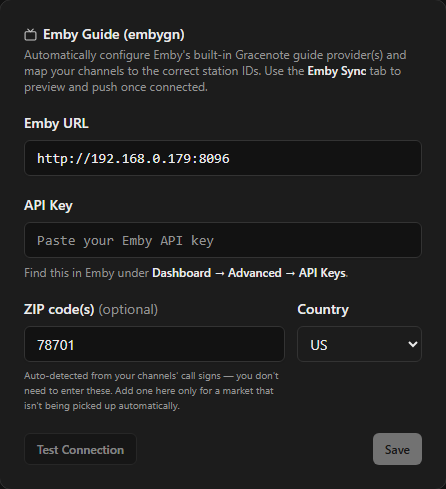
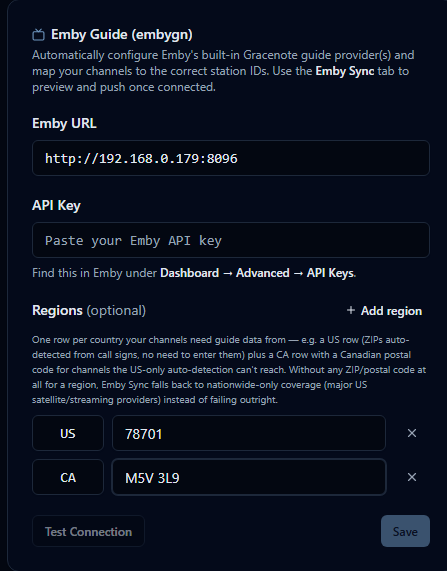
docs: document multi-region Emby Sync in README and USERGUIDE
Updates the Settings/Emby Sync sections to describe the region-row
UI (country + ZIP/postal codes per row, add/remove) instead of the
old single ZIP field + US/CA dropdown, and regenerates the Emby
Guide settings card screenshot to match.

diff --git a/docs/USERGUIDE.md b/docs/USERGUIDE.md
@@ -423,16 +423,15 @@ In **Settings**, scroll to the **Emby Guide (embygn)** card:
 
 - **Emby URL** — e.g. `http://192.168.1.100:8096`
 - **API Key** — from Emby's Dashboard → Advanced → API Keys
-- **ZIP code(s)** *(optional)* — EPGmatcharr auto-detects the markets it needs from your channels' call signs using public FCC station data, so this can usually be left blank. Add a ZIP here for full local cable/OTA coverage of a market that isn't being picked up automatically. If no ZIP can be auto-detected or entered at all, EPGmatcharr falls back to nationwide-only coverage (major satellite/streaming providers like DIRECTV, DISH, Hulu, YouTube TV) instead of failing — Preview will show a note when this fallback is in effect.
-- **Country** — US or CA
+- **Regions** *(optional)* — one row per country your channels need guide data from, each with a 2-letter country code and a comma-separated list of ZIP/postal codes. EPGmatcharr auto-detects US markets from your channels' call signs using public FCC station data, so a plain US setup can usually leave this blank entirely. Add a region row for a market the US auto-detection misses, or for any other country (e.g. Canada) — auto-detection is US-only, so a Canadian or other non-US channel needs its country's postal code entered manually. You can mix regions freely: a single Emby instance carrying both US and Canadian channels just needs a US row (ZIPs optional) and a CA row (postal code required) at the same time — every Preview/Push run searches all configured regions together. Use **+ Add region** / the trash icon next to a row to add or remove regions. If no ZIP/postal code can be auto-detected or entered at all, EPGmatcharr falls back to nationwide-only coverage (major US satellite/streaming providers like DIRECTV, DISH, Hulu, YouTube TV) instead of failing — Preview will show a note when this fallback is in effect.
 
 Click **Test Connection** to verify Emby is reachable, then **Save**.
 
 ![Emby Guide (embygn) settings card](screenshots/ug-emby-01-settings.png)
 
-> **Note:** If the `EMBY_URL` and `EMBY_API_KEY` environment variables are both set on the container, the URL and API Key fields are replaced with a notice and become read-only — the env vars take priority over anything saved through the UI. ZIP code, country, Test Connection, and Save all continue to work as normal against the env-provided connection.
+> **Note:** If the `EMBY_URL` and `EMBY_API_KEY` environment variables are both set on the container, the URL and API Key fields are replaced with a notice and become read-only — the env vars take priority over anything saved through the UI. Regions, Test Connection, and Save all continue to work as normal against the env-provided connection.
 
-You only need to paste your API key once. After it's saved, the field is always shown blank when you reopen Settings (it's never redisplayed, the same as a password field) — but **Test Connection** and **Save** both reuse the already-saved key automatically if you leave the field blank, so you don't need to re-paste it just to test the connection again or change your ZIP code.
+You only need to paste your API key once. After it's saved, the field is always shown blank when you reopen Settings (it's never redisplayed, the same as a password field) — but **Test Connection** and **Save** both reuse the already-saved key automatically if you leave the field blank, so you don't need to re-paste it just to test the connection again or change your regions.
 
 If Emby reports a pending restart (shown after Test Connection or a refresh), a small warning appears noting that some changes may not be active until Emby is restarted. EPGmatcharr never restarts Emby for you — many Emby installs (including plain portable/manual installs) can't be restarted remotely via its API at all, and remotely restarting a media server would interrupt anyone currently streaming from it.
 

diff --git a/README.md b/README.md
@@ -90,7 +90,7 @@ All configuration can be done through the web UI. The following environment vari
 | `EMBY_URL` | Emby server base URL (e.g. `http://192.168.1.100:8096`) |
 | `EMBY_API_KEY` | Emby API key |
 
-If set, these take priority over anything saved through the UI. `EMBY_URL`/`EMBY_API_KEY` must both be set to take effect; ZIP code and country remain configurable through the UI either way.
+If set, these take priority over anything saved through the UI. `EMBY_URL`/`EMBY_API_KEY` must both be set to take effect; regions (ZIP/postal codes per country) remain configurable through the UI either way.
 
 ---
 
@@ -113,7 +113,7 @@ A bundled `fcc_market_db.sqlite` (built from public FCC station license data and
 If you run Emby with its built-in Gracenote (embygn) Live TV guide, EPGmatcharr can configure it for you automatically:
 
 1. Assign GN station IDs to your channels first, using the **GN Matcher** tab.
-2. In **Settings**, enter your Emby server URL and API key (found in Emby under Dashboard → Advanced → API Keys), then **Test Connection** and **Save**. ZIP code and country are optional — EPGmatcharr auto-detects the markets it needs from your channels' call signs.
+2. In **Settings**, enter your Emby server URL and API key (found in Emby under Dashboard → Advanced → API Keys), then **Test Connection** and **Save**. Regions are optional — EPGmatcharr auto-detects US markets from your channels' call signs. Add a region row (country + ZIP/postal codes) for any market that isn't auto-detected, or for a country with no auto-detection at all (e.g. Canada) — one Emby instance can carry channels from multiple countries at once.
 3. Open the **Emby Sync** tab and click **Preview Coverage** to see what would be mapped, with no changes made to Emby.
 4. Click **Push** to write the mappings — EPGmatcharr adds the minimal set of Gracenote lineups needed, maps each channel to its known station ID, disables Emby's number-based auto-matching, and corrects anything Emby's own background matching changes afterward.
 
